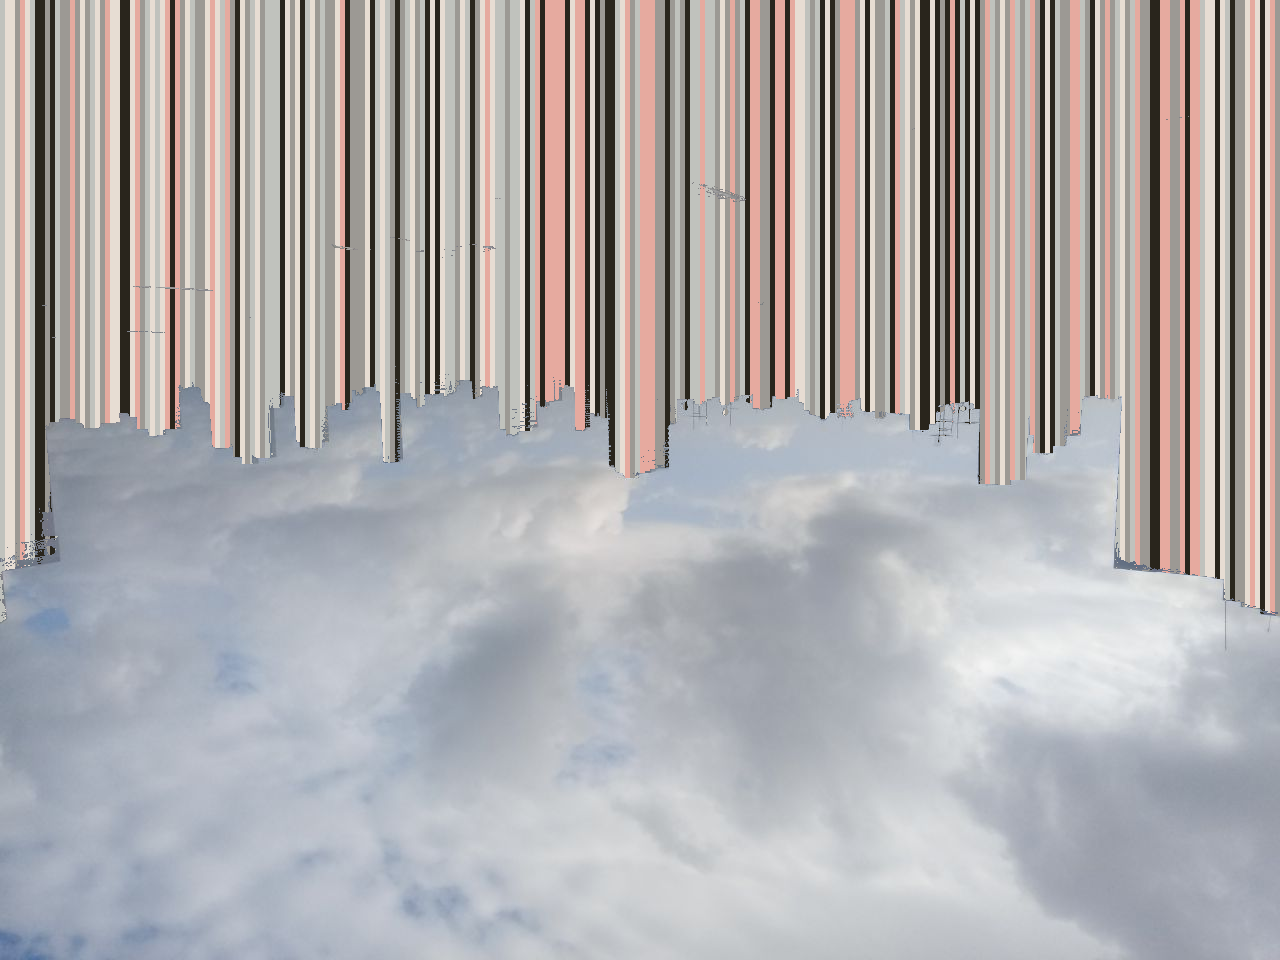
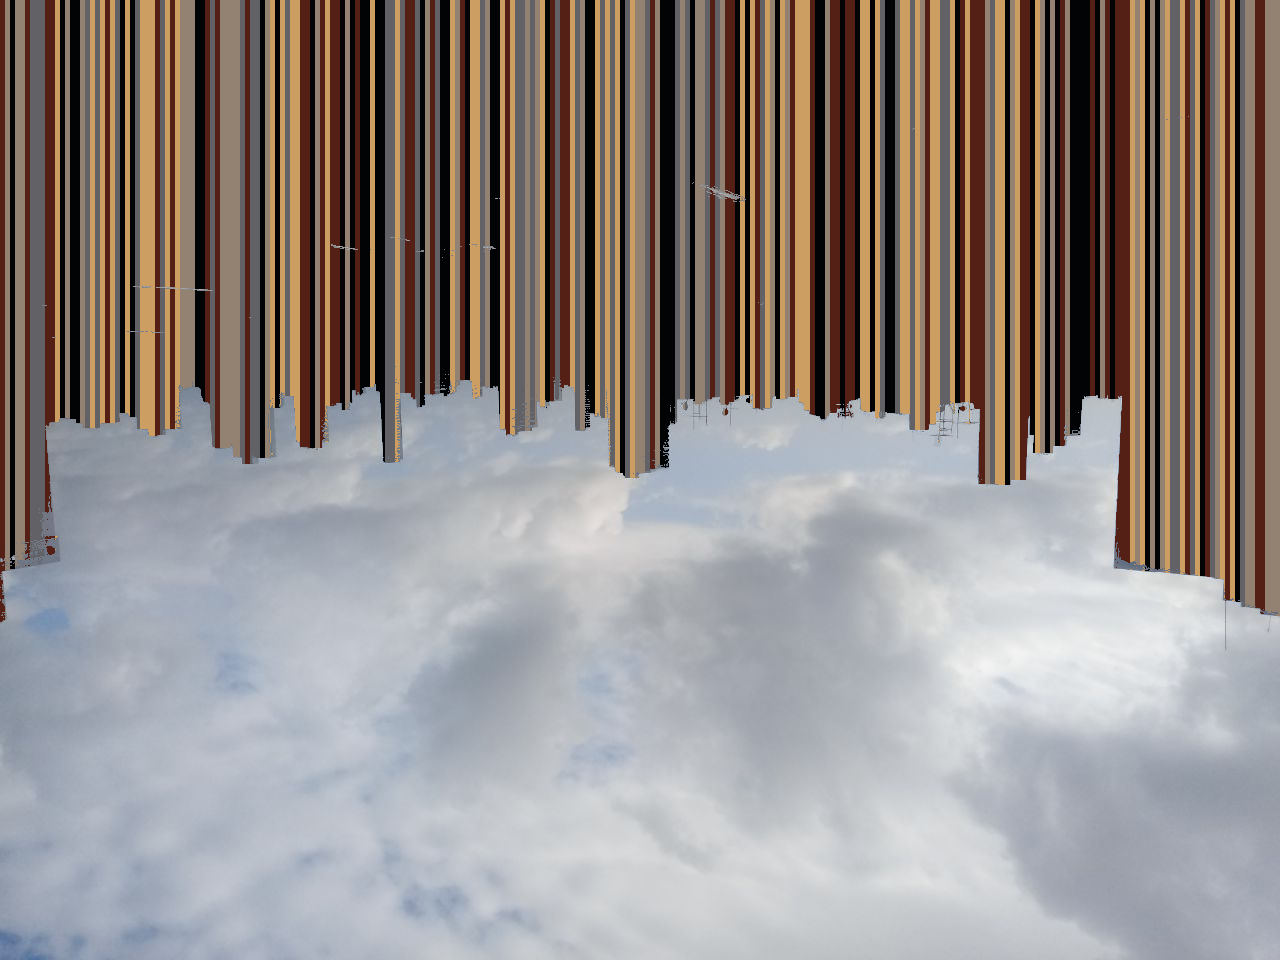
Add s_231

diff --git a/index.html b/index.html
@@ -272,6 +272,15 @@
 
 <hr/>
 
+<a id="s_231" href="#s_231"><h2>#231</h2></a>
+<p>Python code <a class="bold_write" href="https://github.com/berinhard/sketches/tree/master/s_231/" target="_blank">here</a></p>
+
+<img class="lazy" alt="s_231" data-src="s_231/cover.png"></img>
+<p>Image from Noite de Processing - Recife's meetup</p>
+<span>Daily sketch - 09/25/2019</span>
+
+<hr/>
+
 <a id="s_230" href="#s_230"><h2>#230</h2></a>
 <p>Python code <a class="bold_write" href="https://github.com/berinhard/sketches/tree/master/s_230/" target="_blank">here</a></p>
 

diff --git a/templates/index_base.html b/templates/index_base.html
@@ -274,6 +274,15 @@
 
 <hr/>
 
+<a id="s_231" href="#s_231"><h2>#231</h2></a>
+<p>Python code <a class="bold_write" href="https://github.com/berinhard/sketches/tree/master/s_231/" target="_blank">here</a></p>
+
+<img class="lazy" alt="s_231" data-src="s_231/cover.png"></img>
+<p>Image from Noite de Processing - Recife's meetup</p>
+<span>Daily sketch - 09/25/2019</span>
+
+<hr/>
+
 <a id="s_230" href="#s_230"><h2>#230</h2></a>
 <p>Python code <a class="bold_write" href="https://github.com/berinhard/sketches/tree/master/s_230/" target="_blank">here</a></p>
 
